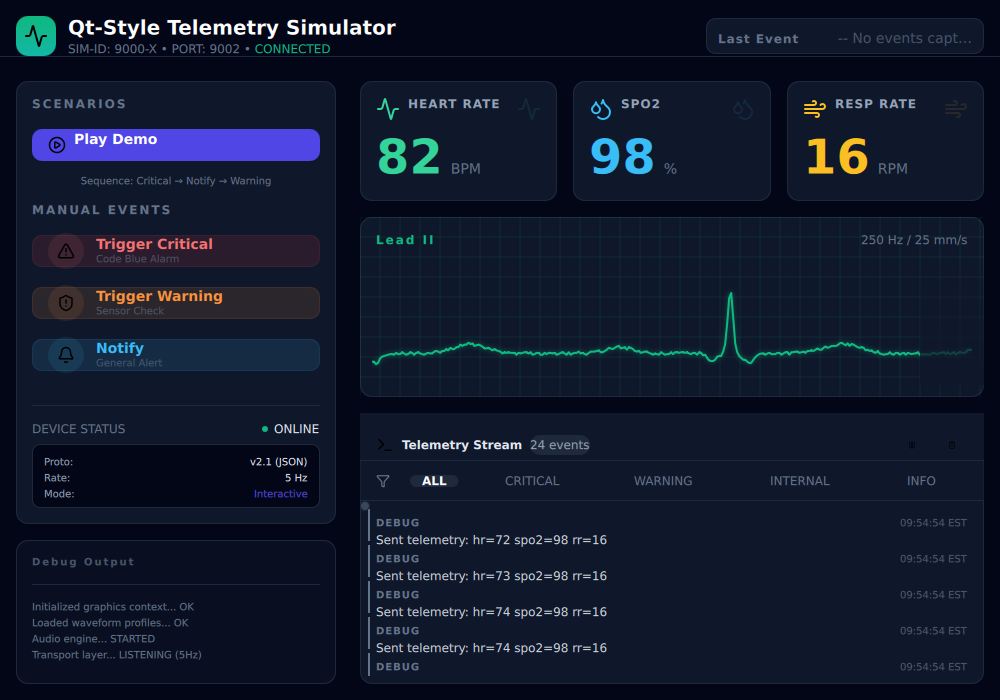
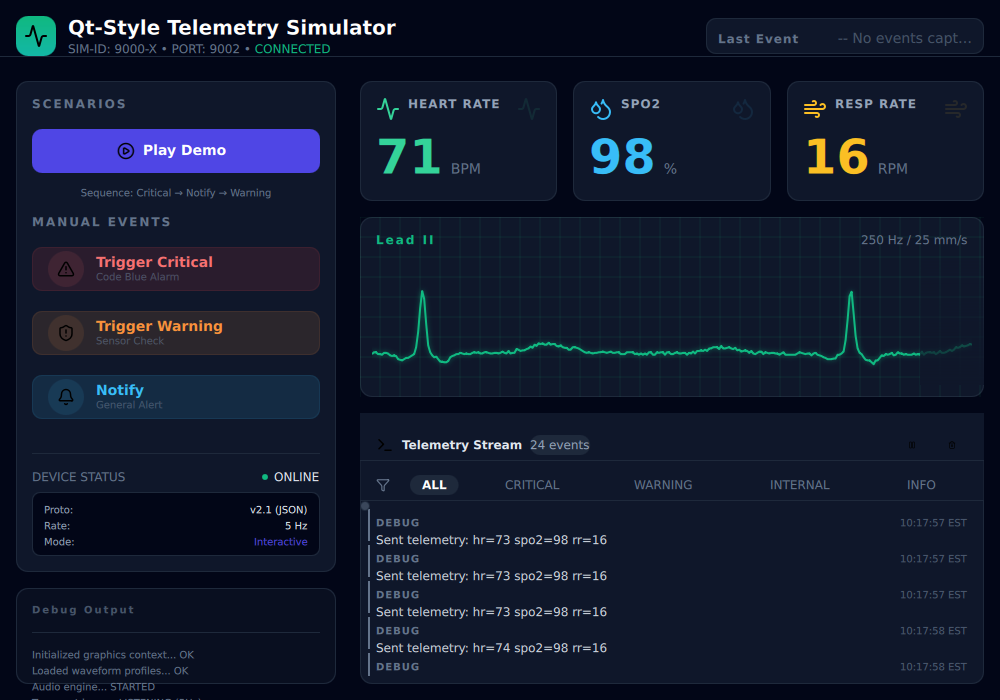
Fix padding of the button

diff --git a/project-dashboard/sensor-simulator/qml/components/EventButton.qml b/project-dashboard/sensor-simulator/qml/components/EventButton.qml
@@ -11,7 +11,11 @@ Button {
     property color accentColor: Theme.accentEmerald
     
     Layout.fillWidth: true
-    Layout.preferredHeight: Theme.buttonHeight
+    Layout.preferredHeight: Theme.buttonHeightXl
+    leftPadding: Theme.spacingLg
+    rightPadding: Theme.spacingLg
+    topPadding: Theme.spacingMd
+    bottomPadding: Theme.spacingMd
     
     background: Rectangle {
         // Matching React: bg-red-950/30 border border-red-900/50
@@ -33,55 +37,65 @@ Button {
         return Theme.colorWithOpacity(Theme.accentSky, 0.2) // sky-900/50
     }
     
-    contentItem: Row {
-        spacing: Theme.spacingMd
-        anchors.left: parent.left
-        anchors.leftMargin: Theme.spacingLg
-        anchors.verticalCenter: parent.verticalCenter
-        
-        // Icon in rounded circle - matching React: p-2 bg-red-500/10 rounded-full
-        Rectangle {
-            width: 36
-            height: 36
-            radius: 18
-            color: Theme.colorWithOpacity(root.accentColor, 0.1)
+    contentItem: Item {
+        anchors.fill: parent
+        anchors.leftMargin: root.leftPadding
+        anchors.rightMargin: root.rightPadding
+        anchors.topMargin: root.topPadding
+        anchors.bottomMargin: root.bottomPadding
+
+        Row {
+            id: buttonContent
+            spacing: Theme.spacingMd
             anchors.verticalCenter: parent.verticalCenter
+            anchors.left: parent.left
             
-            Image {
-                id: eventIcon
-                anchors.centerIn: parent
-                source: getIconSource()
-                width: 18
-                height: 18
-                sourceSize.width: 18
-                sourceSize.height: 18
-                fillMode: Image.PreserveAspectFit
-                visible: getIconSource() !== "" && status === Image.Ready
+            // Icon in rounded circle - matching React: p-2 bg-red-500/10 rounded-full
+            Rectangle {
+                id: iconBadge
+                width: 36
+                height: 36
+                radius: 18
+                color: Theme.colorWithOpacity(root.accentColor, 0.1)
+                anchors.verticalCenter: parent.verticalCenter
+                
+                Image {
+                    id: eventIcon
+                    anchors.centerIn: parent
+                    source: getIconSource()
+                    width: 18
+                    height: 18
+                    sourceSize.width: 18
+                    sourceSize.height: 18
+                    fillMode: Image.PreserveAspectFit
+                    visible: getIconSource() !== "" && status === Image.Ready
+                }
+                
+                Text {
+                    anchors.centerIn: parent
+                    text: getIconText()
+                    color: root.accentColor
+                    font.pixelSize: Theme.iconSizeSm
+                    visible: getIconSource() === ""
+                }
             }
             
-            Text {
-                anchors.centerIn: parent
-                text: getIconText()
-                color: root.accentColor
-                font.pixelSize: Theme.iconSizeSm
-                visible: getIconSource() === ""
-            }
-        }
-        
-        Column {
-            spacing: 0
-            anchors.verticalCenter: parent.verticalCenter
-            Text {
-                text: root.label
-                color: root.accentColor
-                font.pixelSize: Theme.fontSizeSm
-                font.bold: true
-            }
-            Text {
-                text: root.subtitle
-                color: Theme.textMuted
-                font.pixelSize: Theme.fontSize10px
-                opacity: 0.6
+            Column {
+                id: labelColumn
+                spacing: 0
+                anchors.verticalCenter: parent.verticalCenter
+                Text {
+                    text: root.label
+                    color: root.accentColor
+                    font.pixelSize: Theme.fontSizeSm
+                    font.bold: true
+                }
+                Text {
+                    text: root.subtitle
+                    color: Theme.textMuted
+                    font.pixelSize: Theme.fontSize10px
+                    opacity: 0.6
+                }
             }
         }
     }

diff --git a/project-dashboard/sensor-simulator/qml/components/ControlPanel.qml b/project-dashboard/sensor-simulator/qml/components/ControlPanel.qml
@@ -45,7 +45,11 @@ Rectangle {
                 text: root.isDemoRunning ? "Running Demo..." : "Play Demo"
                 enabled: !root.isDemoRunning
                 Layout.fillWidth: true
-                Layout.preferredHeight: Theme.buttonHeight
+                Layout.preferredHeight: Theme.buttonHeightXl
+                leftPadding: Theme.spacingLg
+                rightPadding: Theme.spacingXl
+                topPadding: Theme.spacingMd
+                bottomPadding: Theme.spacingMd
                 onClicked: root.playDemo()
                 
                 background: Rectangle {
@@ -54,25 +58,33 @@ Rectangle {
                     border.width: 0
                 }
                 
-                contentItem: Row {
-                    spacing: Theme.spacingSm
-                    anchors.horizontalCenter: parent.horizontalCenter
-                    Image {
-                        id: playCircleIcon
-                        source: "qrc:/qml/icons/circle-play.svg"
-                        width: 18
-                        height: 18
-                        sourceSize.width: 18
-                        sourceSize.height: 18
-                        anchors.verticalCenter: parent.verticalCenter
-                    }
-                    Text {
-                        text: demoButton.text
-                        color: demoButton.enabled ? "white" : Theme.textMuted
-                        horizontalAlignment: Text.AlignHCenter
-                        verticalAlignment: Text.AlignVCenter
-                        font.pixelSize: Theme.fontSizeSm
-                        font.bold: true
+                contentItem: Item {
+                    anchors.fill: parent
+                    anchors.leftMargin: demoButton.leftPadding
+                    anchors.rightMargin: demoButton.rightPadding
+                    anchors.topMargin: demoButton.topPadding
+                    anchors.bottomMargin: demoButton.bottomPadding
+
+                    Row {
+                        spacing: Theme.spacingSm
+                        anchors.centerIn: parent
+                        Image {
+                            id: playCircleIcon
+                            source: "qrc:/qml/icons/circle-play.svg"
+                            width: 18
+                            height: 18
+                            sourceSize.width: 18
+                            sourceSize.height: 18
+                        }
+                        Text {
+                            id: demoText
+                            text: demoButton.text
+                            color: demoButton.enabled ? "white" : Theme.textMuted
+                            horizontalAlignment: Text.AlignHCenter
+                            verticalAlignment: Text.AlignVCenter
+                            font.pixelSize: Theme.fontSizeSm
+                            font.bold: true
+                        }
                     }
                 }
             }

diff --git a/project-dashboard/sensor-simulator/qml/components/ExitDialog.qml b/project-dashboard/sensor-simulator/qml/components/ExitDialog.qml
@@ -88,6 +88,10 @@ Dialog {
                             text: "Yes"
                             Layout.preferredWidth: Theme.dialogButtonWidth
                             Layout.preferredHeight: Theme.buttonHeight
+                            leftPadding: Theme.spacingLg
+                            rightPadding: Theme.spacingLg
+                            topPadding: Theme.spacingSm
+                            bottomPadding: Theme.spacingSm
                             onClicked: {
                                 yesButton.enabled = false
                                 root.close()
@@ -103,6 +107,11 @@ Dialog {
                             }
                             
                             contentItem: Text {
+                                anchors.fill: parent
+                                anchors.leftMargin: yesButton.leftPadding
+                                anchors.rightMargin: yesButton.rightPadding
+                                anchors.topMargin: yesButton.topPadding
+                                anchors.bottomMargin: yesButton.bottomPadding
                                 text: yesButton.text
                                 color: Theme.textPrimary
                                 horizontalAlignment: Text.AlignHCenter
@@ -117,6 +126,10 @@ Dialog {
                             text: "No"
                             Layout.preferredWidth: Theme.dialogButtonWidth
                             Layout.preferredHeight: Theme.buttonHeight
+                            leftPadding: Theme.spacingLg
+                            rightPadding: Theme.spacingLg
+                            topPadding: Theme.spacingSm
+                            bottomPadding: Theme.spacingSm
                             onClicked: root.close()
                             
                             background: Rectangle {
@@ -128,6 +141,11 @@ Dialog {
                             }
                             
                             contentItem: Text {
+                                anchors.fill: parent
+                                anchors.leftMargin: noButton.leftPadding
+                                anchors.rightMargin: noButton.rightPadding
+                                anchors.topMargin: noButton.topPadding
+                                anchors.bottomMargin: noButton.bottomPadding
                                 text: noButton.text
                                 color: Theme.textPrimary
                                 horizontalAlignment: Text.AlignHCenter

diff --git a/project-dashboard/sensor-simulator/qml/components/LogConsole.qml b/project-dashboard/sensor-simulator/qml/components/LogConsole.qml
@@ -156,8 +156,12 @@ Rectangle {
                     model: ["ALL", "CRITICAL", "WARNING", "INTERNAL", "INFO"]
                     Button {
                         text: modelData
-                        Layout.preferredHeight: 24
-                        Layout.preferredWidth: implicitWidth + Theme.spacingMd
+                        Layout.preferredHeight: Theme.filterChipHeight
+                        Layout.preferredWidth: implicitWidth
+                        leftPadding: Theme.spacingMd
+                        rightPadding: Theme.spacingMd
+                        topPadding: Theme.spacingSm
+                        bottomPadding: Theme.spacingSm
                         
                         background: Rectangle {
                             color: root.filterLevel.toUpperCase() === modelData ? Theme.cardBackgroundSecondary : "transparent"
@@ -165,13 +169,19 @@ Rectangle {
                             border.width: 0
                         }
                         
-                        contentItem: Text {
-                            text: modelData
-                            color: root.filterLevel.toUpperCase() === modelData ? "white" : Theme.textMuted
-                            horizontalAlignment: Text.AlignHCenter
-                            verticalAlignment: Text.AlignVCenter
-                            font.pixelSize: Theme.fontSizeXs
-                            font.bold: root.filterLevel.toUpperCase() === modelData
+                        contentItem: Item {
+                            implicitWidth: filterLabel.implicitWidth
+                            implicitHeight: filterLabel.implicitHeight
+                            Text {
+                                id: filterLabel
+                                anchors.centerIn: parent
+                                text: modelData
+                                color: root.filterLevel.toUpperCase() === modelData ? "white" : Theme.textMuted
+                                horizontalAlignment: Text.AlignHCenter
+                                verticalAlignment: Text.AlignVCenter
+                                font.pixelSize: Theme.fontSizeXs
+                                font.bold: root.filterLevel.toUpperCase() === modelData
+                            }
                         }
                         
                         onClicked: {

diff --git a/project-dashboard/sensor-simulator/qml/components/ReusableButton.qml b/project-dashboard/sensor-simulator/qml/components/ReusableButton.qml
@@ -14,8 +14,12 @@ Button {
     property int fontSize: Theme.fontSizeBase
 
     // sensible defaults so it behaves like previous buttons
-    Layout.preferredWidth: Math.max(80, implicitWidth + (Theme.spacingMd * 2))
-    Layout.preferredHeight: Theme.buttonHeightSm
+    leftPadding: Theme.spacingLg
+    rightPadding: Theme.spacingLg
+    topPadding: Theme.spacingSm
+    bottomPadding: Theme.spacingSm
+    Layout.preferredWidth: Math.max(80, implicitWidth)
+    Layout.preferredHeight: Math.max(Theme.buttonHeightSm, implicitHeight)
 
     // Use Button's default text centering - just style the background
     background: Rectangle {
@@ -28,11 +32,18 @@ Button {
 
     // Minimal contentItem override - preserve Button's default alignment behavior
     contentItem: Text {
+        anchors.fill: parent
+        anchors.leftMargin: root.leftPadding
+        anchors.rightMargin: root.rightPadding
+        anchors.topMargin: root.topPadding
+        anchors.bottomMargin: root.bottomPadding
         text: root.text
         color: root.textColor
         font.pixelSize: root.fontSize
         font.bold: true
         horizontalAlignment: Text.AlignHCenter
         verticalAlignment: Text.AlignVCenter
+        wrapMode: Text.NoWrap
+        elide: Text.ElideRight
     }
 }

diff --git a/project-dashboard/sensor-simulator/qml/Theme.qml b/project-dashboard/sensor-simulator/qml/Theme.qml
@@ -66,6 +66,8 @@ QtObject {
     // Sizes
     readonly property int headerHeight: 56
     readonly property int buttonHeight: 44
+    readonly property int buttonHeightLg: 52
+    readonly property int buttonHeightXl: 56
     readonly property int buttonHeightSm: 36
     readonly property int buttonHeightXs: 30
     readonly property int cardPadding: 16
@@ -87,6 +89,7 @@ QtObject {
     readonly property int eventBadgeWidth: 60
     readonly property int eventBadgeHeight: 20
     readonly property int eventBadgeRadius: 10
+    readonly property int filterChipHeight: 32
     readonly property int statusDotSize: 6
     readonly property int statusDotRadius: 3
     readonly property int eventIconSize: 32
